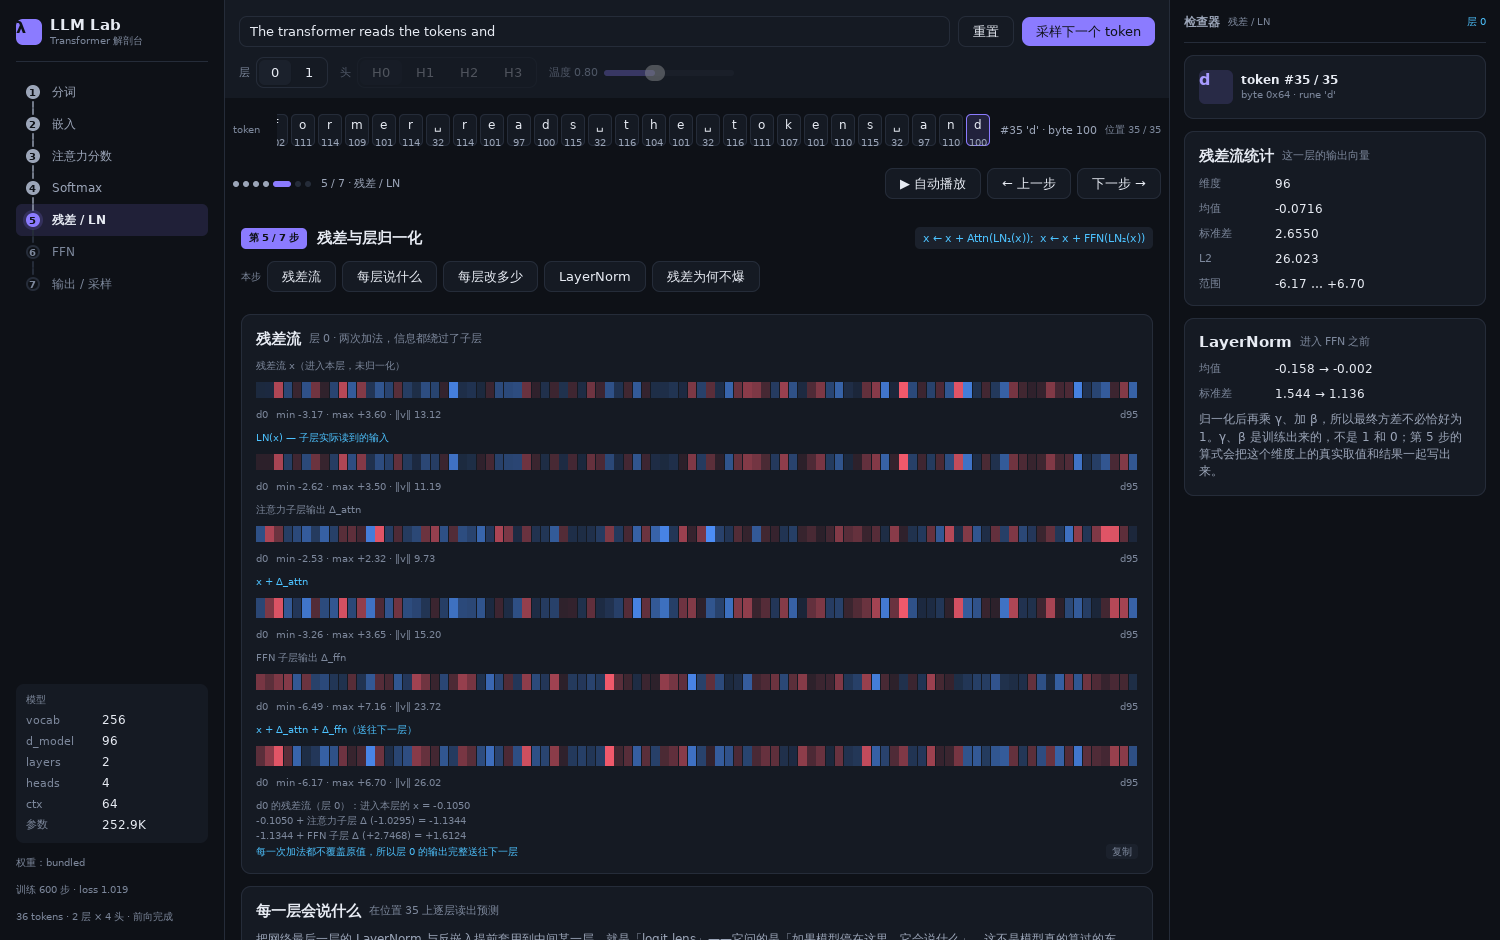
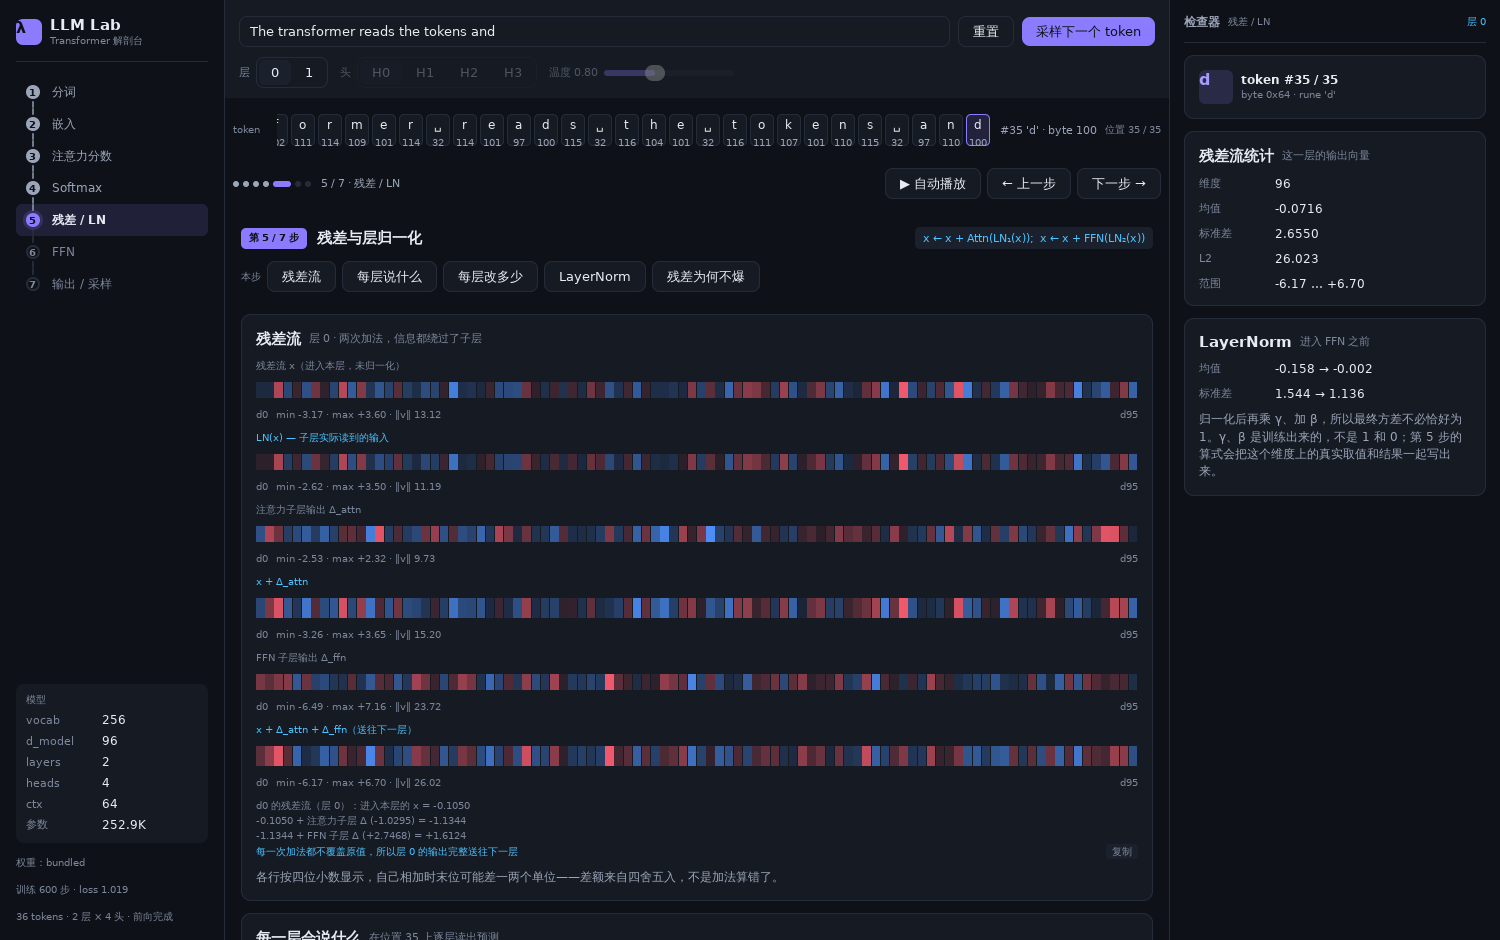
fix(app): warn that the residual chain's terms are rounded
The residual chain prints each addition at four decimals and ends with "每一次加法都不覆盖原值",
which is an invitation to follow the arithmetic by hand. The printed terms do not always re-add to
the printed total: -0.1050 + (-1.0295) shows as -1.1344, where anyone adding the two visible
numbers gets -1.1345.

Nothing is wrong with the arithmetic — the real values are -0.10499 and -1.02946, and each was
rounded independently for display. But the reader has no way to know that.

Measured across every dimension of every token and both layers on the default prompt: 3451 of
13824 visible residual additions, 25%, disagree with their printed sum in the last digit. Someone
checking the work finds a mismatch one time in four.

The FFN breakdown already carried this warning and the residual chain did not, though the residual
chain is the block that invites the checking more directly.

Found by looking at a rendered stage rather than by reading code: both cards are individually
correct, and the discrepancy only appears when the numbers are added up the way the card asks.

docs/residual.png regenerated; it is the only image that changed, which is what pinning stage 5 to
this card predicts. TestDocsImagesAreCurrent passes again.

TestRoundedArithmeticBlocksSaySo covers both blocks, each located by a phrase unique to it, so a
renamed block fails loudly rather than passing vacuously. Verified by deleting the note: it fails
[…]

Changed region(s): [[0.1533, 0.9255, 0.736, 1.0]]

diff --git a/internal/app/workings_test.go b/internal/app/workings_test.go
@@ -4372,3 +4372,46 @@ func TestWeightDerivedTitlesFollowTheLoadedConfig(t *testing.T) {
 			base.Config.DModel, narrow.Config.DModel)
 	}
 }
+
+// TestRoundedArithmeticBlocksSaySo covers the blocks that invite the reader to re-add the numbers.
+//
+// Several cards print a sum broken into terms at four decimals — the residual chain, the FFN
+// output breakdown, the embedding sum — precisely so the reader can follow along. The printed
+// terms do not always re-add to the printed total: each is independently rounded, and measured
+// over every dimension of every token and both layers on the default prompt, 3451 of 13824
+// residual additions (25%) disagree in the last digit. A reader who checks finds a mismatch one
+// time in four.
+//
+// The FFN block had carried a warning since it was written. The residual chain, which invites the
+// same checking more directly by ending on "每一次加法都不覆盖原值", did not — measured: no
+// rounding disclaimer appeared anywhere on the residual stage.
+//
+// The check is on rendered text, and it names each block by a phrase unique to it, so a block
+// that is renamed fails here rather than passing vacuously.
+func TestRoundedArithmeticBlocksSaySo(t *testing.T) {
+	blocks := []struct {
+		step int
+		// anchor is a phrase that appears only in that block's workings.
+		anchor string
+		what   string
+	}{
+		{4, "每一次加法都不覆盖原值", "the residual chain"},
+		{5, "余项是精确补足的和", "the FFN output breakdown"},
+	}
+	for _, b := range blocks {
+		a := newTestApp(t)
+		a.Step = b.step
+		tr := ui.NewTester(a.View, 1500, 4000)
+		tr.Frame()
+		joined := strings.Join(tr.Texts(), "\n")
+		if !strings.Contains(joined, b.anchor) {
+			t.Fatalf("stage %d does not render %q any more, so this test cannot tell whether %s "+
+				"warns about rounding", b.step+1, b.anchor, b.what)
+		}
+		if !strings.Contains(joined, "四位小数") || !strings.Contains(joined, "末位") {
+			t.Fatalf("stage %d shows %s with four-decimal terms and no word about rounding, so a "+
+				"reader who re-adds them finds a mismatch in one case out of four and has no way "+
+				"to know it is the printing", b.step+1, b.what)
+		}
+	}
+}

diff --git a/internal/app/stages.go b/internal/app/stages.go
@@ -1275,6 +1275,16 @@ func residualWorkings(c *ui.Context, dim int, steps []residualStep, isLast bool,
 	}
 	lines = append(lines, fmt.Sprintf("每一次加法都不覆盖原值，所以层 %d 的输出完整%s", layer, next))
 	workingsLinesCopyable(c, lines)
+	// The lines above are meant to be re-added by hand — that is the whole form of this block —
+	// so the precision has to be stated. Each value is rounded to four decimals, and two of them
+	// re-added from their printed forms do not always give the printed sum: measured over every
+	// dimension of every token and both layers on the default prompt, 3451 of 13824 additions
+	// (25%) disagree in the last digit. Without the note a reader who checks the arithmetic finds
+	// a mismatch one time in four and concludes the app is wrong.
+	//
+	// The FFN workings block already carried this warning; this one, which invites the same
+	// checking more directly, did not.
+	mutedText(c, "各行按四位小数显示，自己相加时末位可能差一两个单位——差额来自四舍五入，不是加法算错了。")
 }
 
 // residualNormMeans returns the mean L2 norm of the residual stream at the block

diff --git a/CHANGELOG.md b/CHANGELOG.md
@@ -6,6 +6,14 @@
 
 ### Added
 
+- **残差链那张卡片请读者自己把数加一遍，却不提这些数是四舍五入过的。** 卡片结尾写「每一次加法都不覆盖原值，所以层 0 的输出完整送往下一层」——正是叫人对账的形式，而清单里 `-0.1050 + (-1.0295) = -1.1344`，自己加是 `-1.1345`
+  - 这不是算错：真实值是 `-0.10499 + -1.02946 = -1.13445`，显示时各自独立舍入到四位，就成了上面那样
+  - **实测频率**：把默认提示词两个层、36 个 token、每个维度的每一次加法都数一遍（13824 次），**3451 次（25%）**的可见加法和显示的和差一个末位。读者动手核对，四次里会遇到一次对不上
+  - FFN 那张同样的清单**早就有这句提醒**（「各行按四位小数显示，自己相加时末位可能差一两个单位」），残差链这张没有——而后者才是直接邀请对账的那张
+  - 补上同一句提醒，并说明差额来源。这一处是**看截图发现的**：读代码时两张卡片各自都没问题，只有把数字放在一起用读者视角算一遍才看得出来
+  - 重新生成 `docs/residual.png`（只有这一张变，与「第 5 步显示这张卡」一致），`TestDocsImagesAreCurrent` 复绿
+  - `TestRoundedArithmeticBlocksSaySo` 同时覆盖残差链与 FFN 两块，用各自独有的锚点定位（块被改名就报错而不是空过）。破坏性验证：删掉提醒 → `stage 5 shows the residual chain with four-decimal terms and no word about rounding`
+
 - **输出阶段的检查器写「top-1 97.0%」，下面那张卡片写「t=8 的预测 p = 0.9376」——两张卡说的是不同的行，但只有一张标了位置。** 读者固定住 t=8 时，屏幕上同时出现 **96.95%** 和 **93.76%**，看起来像同一个量给了两个值
   - 成因：`inspectorLogits` 一直用 `tr.Probabilities(a.Temp)`，那是**最后一个位置**的分布；而「每个位置都在预测」卡片跟着 `PredSel` 走。两者都叫 top-1，都没错
   - 修法：检查器副标题从「温度 0.80」改成「温度 0.80 · **最后一个位置 t=35**」。实测生成后的图里，它与下方的「t=8 的预测」一眼可分
